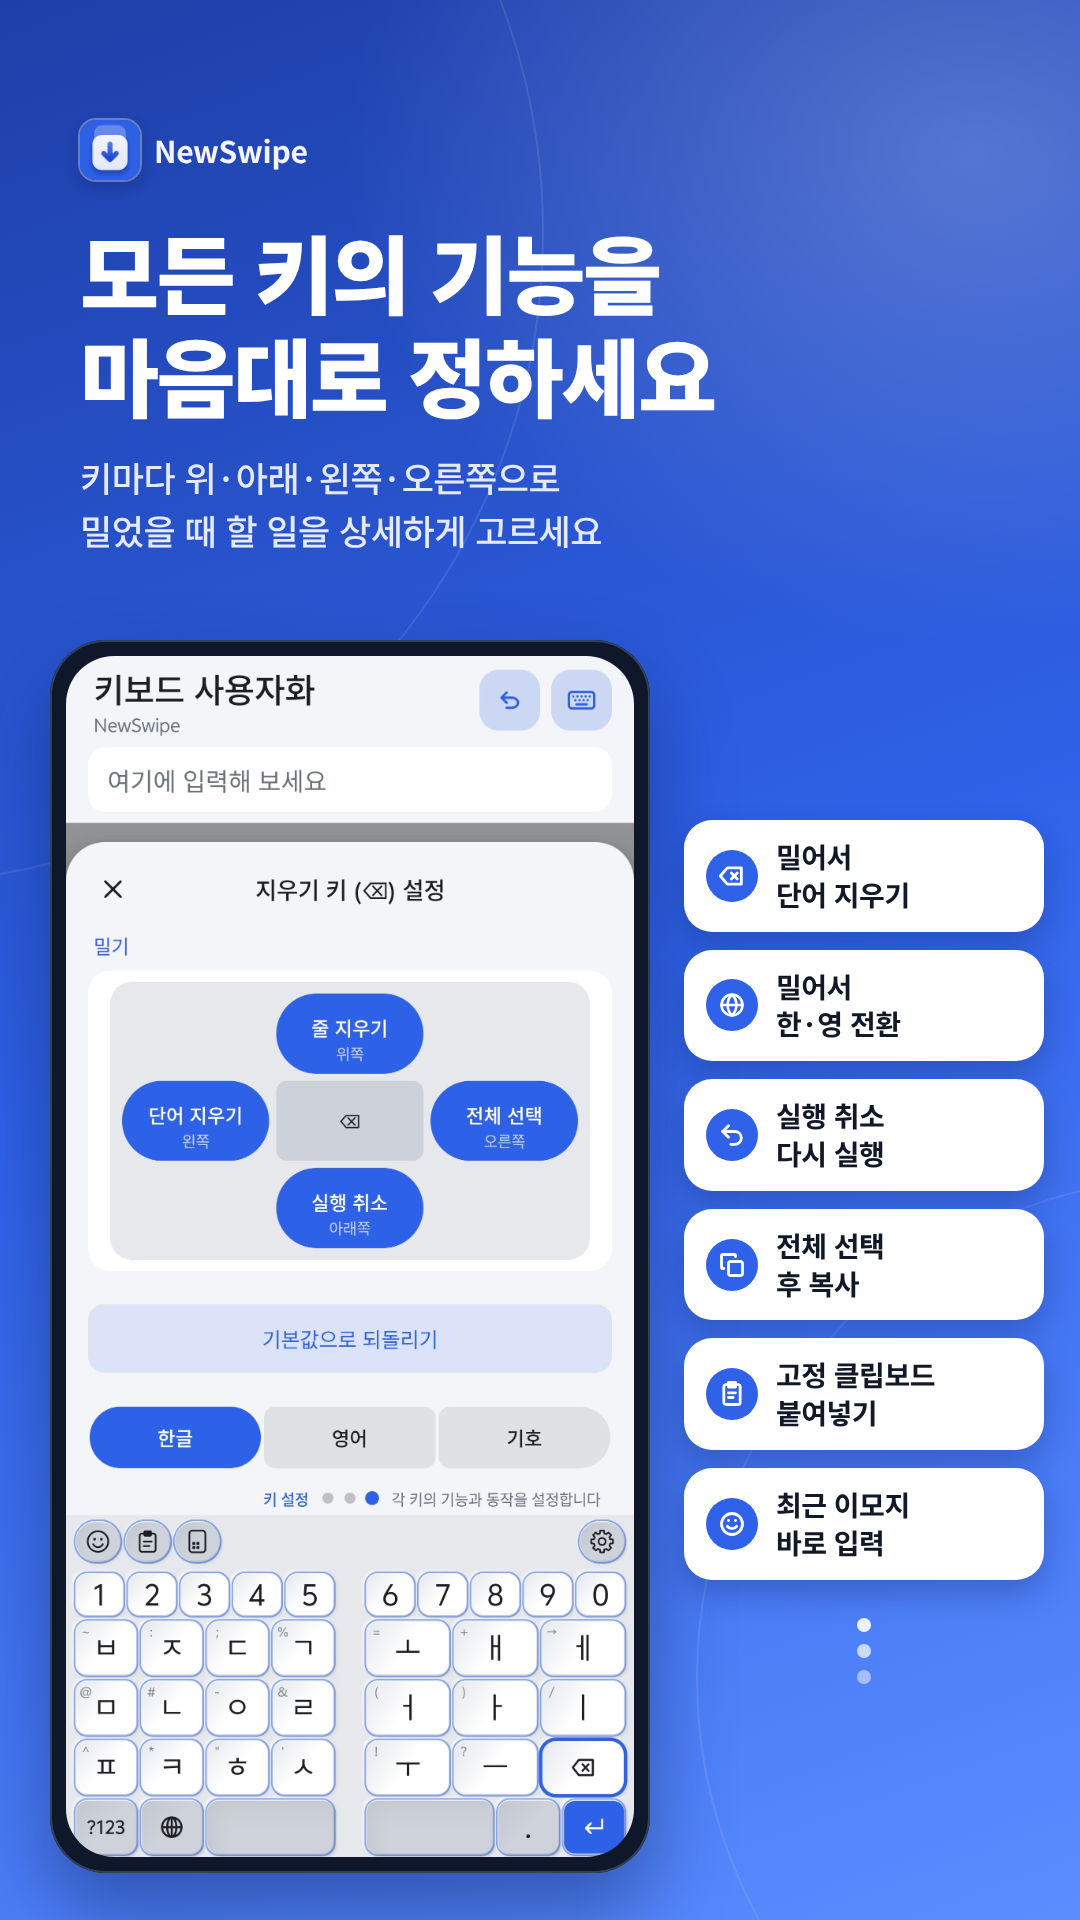
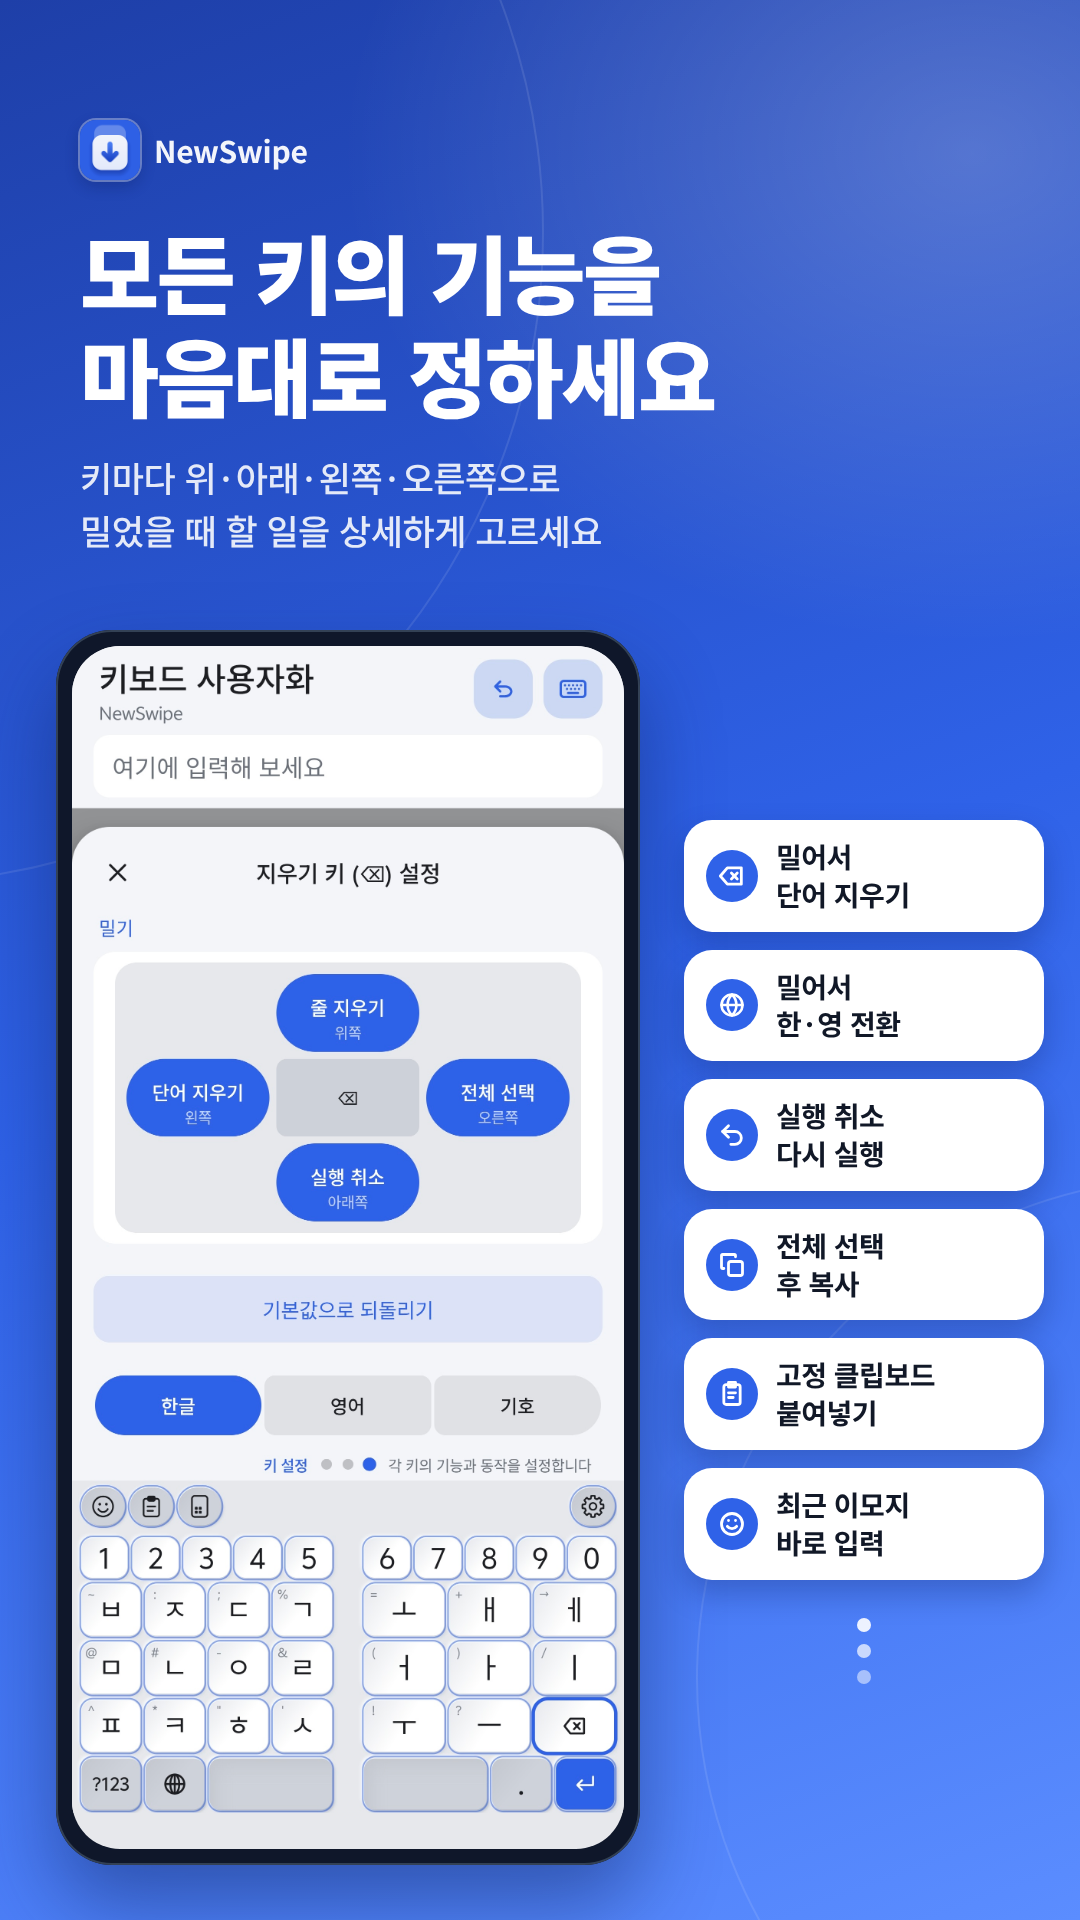
1번 키보드 사이 여백 늘리고, 3번 기기 화면 아래에 여백을 두어 모서리에 잘리지 않게 하기
Claude-Session: https://claude.ai/code/session_01AwdWyHtkdh3yzUH3EHf2iE

Changed region(s): [[0.0306, 0.3125, 0.6111, 1.0]]

diff --git a/docs/play-store/screenshots/src/shots.html b/docs/play-store/screenshots/src/shots.html
@@ -66,14 +66,14 @@
     <h1>단모음 레이아웃,<br>원하는 대로</h1>
     <p>다양한 단모음 배열을 써 보고<br>내 손에 맞게 사용자화하세요</p>
   </div>
-  <div class="card" style="left:80px; top:630px; width:640px;"><img src="img/l1.jpg"></div>
-  <div class="label" style="left:720px; width:360px; top:810px; text-align:center;"><b>단모음</b></div>
+  <div class="card" style="left:80px; top:610px; width:600px;"><img src="img/l1.jpg"></div>
+  <div class="label" style="left:680px; width:400px; top:775px; text-align:center;"><b>단모음</b></div>
 
-  <div class="card" style="left:360px; top:1050px; width:640px;"><img src="img/l2-green.png"></div>
-  <div class="label" style="left:0; width:360px; top:1205px; text-align:center;"><b>NewSwipe<br>단모음</b></div>
+  <div class="card" style="left:400px; top:1038px; width:600px;"><img src="img/l2-green.png"></div>
+  <div class="label" style="left:0; width:400px; top:1175px; text-align:center;"><b>NewSwipe<br>단모음</b></div>
 
-  <div class="card" style="left:80px; top:1470px; width:640px;"><img src="img/l3.jpg"></div>
-  <div class="label" style="left:720px; width:360px; top:1625px; text-align:center;"><b>균형<br>레이아웃</b></div>
+  <div class="card" style="left:80px; top:1466px; width:600px;"><img src="img/l3.jpg"></div>
+  <div class="label" style="left:680px; width:400px; top:1603px; text-align:center;"><b>균형<br>레이아웃</b></div>
 </section>
 
 <!-- ============ 2. 분리 키보드 ============ -->
@@ -105,8 +105,9 @@
     <h1>모든 키의 기능을<br>마음대로 정하세요</h1>
     <p>키마다 위·아래·왼쪽·오른쪽으로<br>밀었을 때 할 일을 상세하게 고르세요</p>
   </div>
-  <div class="device" style="left:50px; top:640px; width:600px; border-radius:56px; padding:16px;">
-    <div class="screen"><img src="img/settings.jpg" style="width:100%; display:block;"></div>
+  <div class="device" style="left:56px; top:630px; width:584px; border-radius:56px; padding:16px;">
+    <!-- 아래 모서리 라운딩에 키보드가 잘리지 않도록 키보드 바탕색(#E7E8EC)으로 여백을 둔다 -->
+    <div class="screen" style="padding-bottom:36px; background:#E7E8EC;"><img src="img/settings.jpg" style="width:100%; display:block;"></div>
   </div>
 
   <div style="position:absolute; left:684px; top:820px; width:360px; display:flex; flex-direction:column; gap:18px; z-index:4;">
